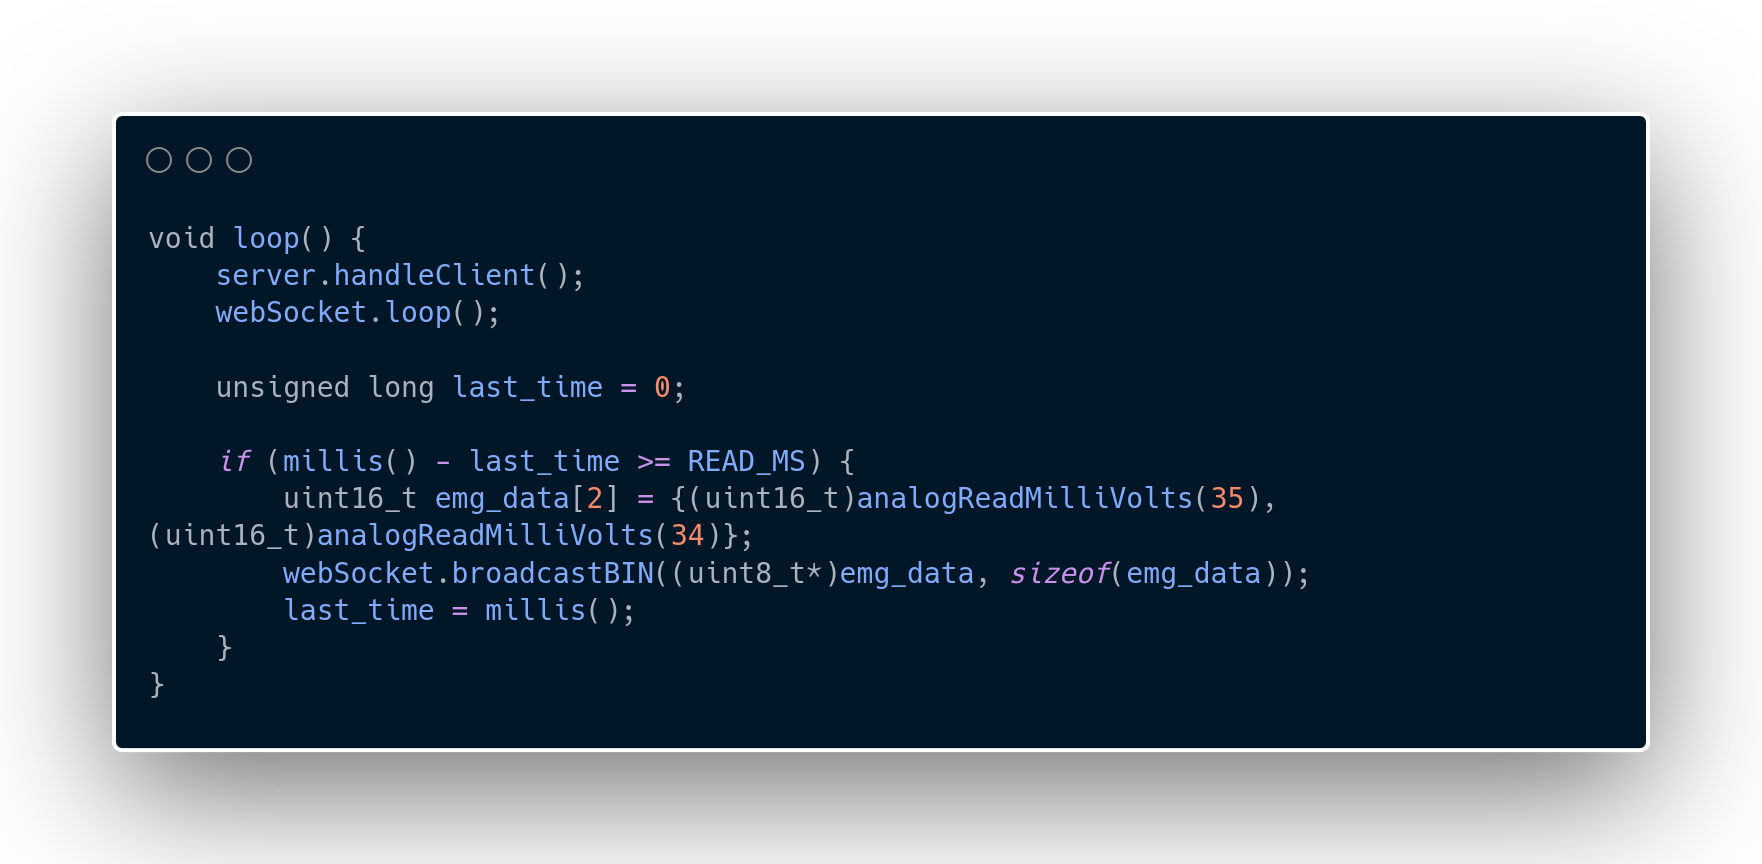
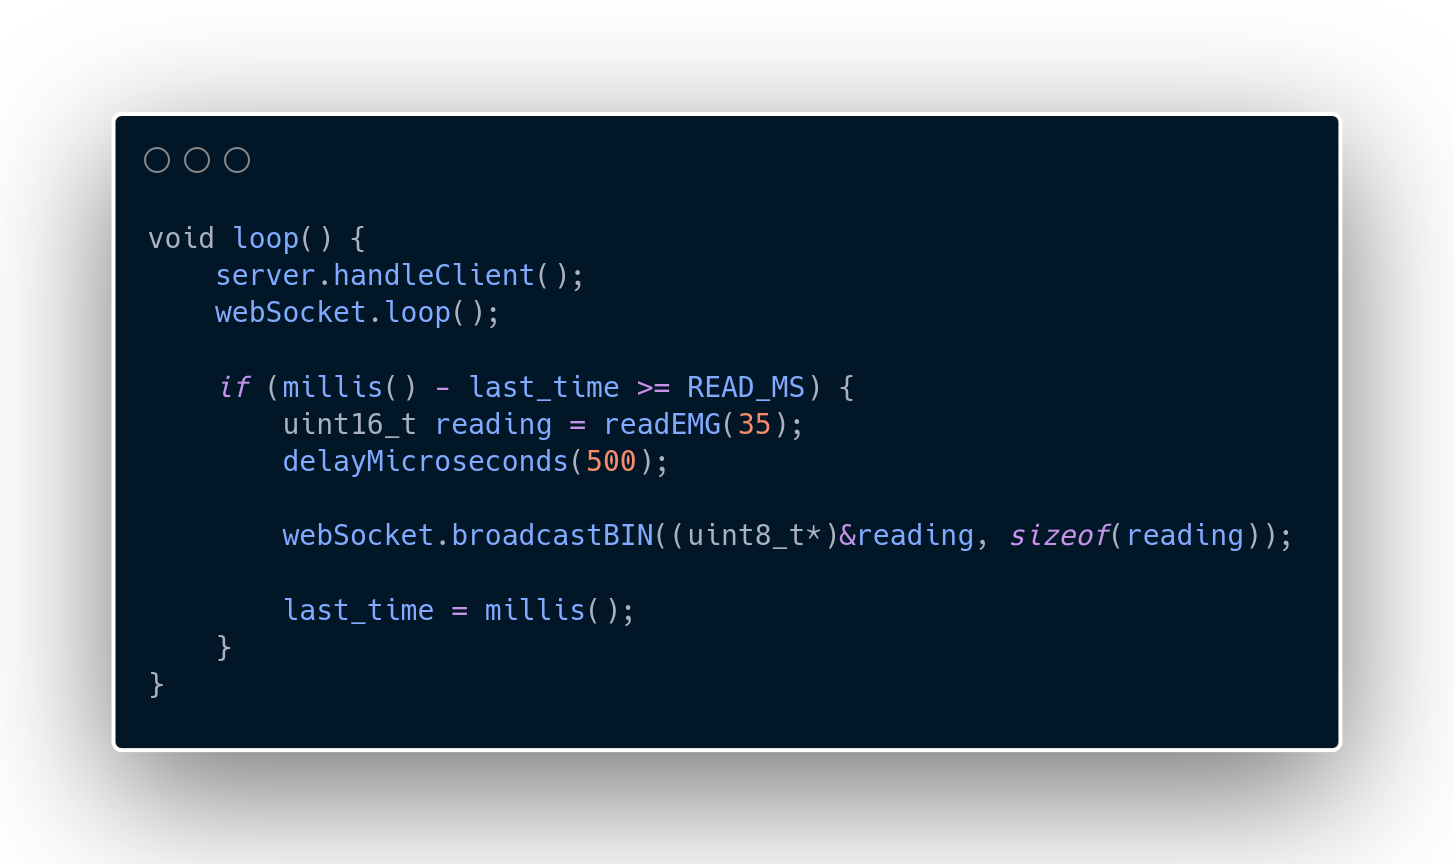
docs: add final assembly photo

Changed region(s): [[0.0619, 0.125, 0.8666, 0.875], [0.8975, 0.125, 0.9594, 0.875]]

diff --git a/README.md b/README.md
@@ -19,14 +19,14 @@
 
 ## Basic Overview
 
-This project consists of an implementation of a circuit to measure specific muscle activity, consisting of two channels, which means that it is possible to measure two muscles separatly and simultaneously. The project emerges as a way to detect muscular issues and restraints in a low-cost and reliable manner. The general architecture of this project is a connection between the electromyograph PCB and the ESP32 microcontroller, where the ESP32 acts as a web server with an WebSocket to handle the data plotting.
+This project consists of an implementation of a circuit to measure specific muscle activity, consisting of two channels, which means that it is possible to measure two muscles simultaneously. The project emerges as a way to detect muscular issues and restraints in a low-cost and reliable manner. The general architecture of this project is a connection between the electromyograph PCB and the ESP32 microcontroller, where the ESP32 acts as a web server with an WebSocket to handle the data plotting.
 
 ## Goals
 
 | Type | Goal |
 | :--- | :--- |
-| **Hardware** | Design a circuit that is capable of effectively measuring a muscle voltage |
-| **Hardware** | Make the circuit as affordable as possible, but at the same time, noise-free |
+| **Hardware** | Design a circuit that is capable of effectively measuring muscle voltage |
+| **Hardware** | Make the circuit as noise-free as possible |
 | **Software** | Write an optimized code that can display, in real time, the muscle data |
 
 
@@ -105,9 +105,9 @@ This section explains the details of the project, including the materials and to
   </tr>
   <tr>
     <td align="center" valign="top" width="150" style="border: none;">
-      <img src="/images/dip14.png" width="80" height="80" style="object-fit: contain;"><br>
-      <strong>IC Socket</strong><br>
-      <font color="#666" size="2">1x DIP-14</font>
+      <img src="/images/isopropanol.png" width="80" height="80" style="object-fit: contain;"><br>
+      <strong>Isopropanol</strong><br>
+      <font color="#666" size="2">1x 99.8% Pure</font>
     </td>
     <td align="center" valign="top" width="150" style="border: none;">
       <img src="/images/cell_holder.png" width="80" height="80" style="object-fit: contain;"><br>
@@ -196,6 +196,9 @@ By substituting the values, it follows that the circuit raises the muscle voltag
 | :--- | :--- |
 | **Reference Voltage** | $V_{out} = \left(5V\right)\left(\frac{R_{variable}}{R_{total}}\right)$ |
 
+> [!IMPORTANT]  
+> Even though the project has only one graph, both of the outputs needs to be connected. The first output (O1) is the main channel, and the second output (O2) is an auxiliar channel that helps in cleaning the noise.
+
 ---
 
 ### Pin Reference
@@ -231,6 +234,46 @@ A single-channel prototype was implemented on a breadboard to validate the circu
 
 In the image below, it is shown the final assembly of this project, consisting of two main blocks, the printed circuit board (PCB), which was ordered from <a href="https://jlcpcb.com/">JLCPCB</a>, and the ESP32 microcontroller.
 
+
+<p align="center">
+    <img src="images/final_assembly.jpg" />
+</p>
+
+> [!TIP]
+> In environments highly susceptible to noise, such as an electromyograph, it is important to clean the board with isopropanol and a anti-static brush to remove any soldering residue.
+
+To help reduce the noise, it was used copper pouring in both layers of the printed circuit board (PCB). In the table below it is presented some important parameters of the board.
+
+| Parameter | Value |
+| :--- | :--- |
+| **Power Trace Width** | $0.4 \ mm$ |
+| **Signal Trace Width** | $0.2 \ mm$ |
+| **Clearance** | $0.2 \ mm$ |
+| **Via Size** | $0.6 \ mm$ |
+| **Via Hole** | $0.3 \ mm$ |
+| **μVia Size** | $0.3 \ mm$ |
+| **μVia Hole** | $0.1 \ mm$ |
+| **DP Width** | $0.2 \ mm$ |
+| **DP Gap** | $0.25 \ mm$ |
+
+---
+
+## Electrode Placement
+
+<p align="center">
+    <img src="images/cable_ref.jpg" />
+</p>
+
+| Cable End | Role |
+| :--- | :--- |
+| **Yellow** | Reference |
+| **Green** | Negative |
+| **Red** | Positive |
+
+> [!IMPORTANT]  
+> Place the yellow electrode in a non-muscular part of the body, and the centers of green and red electrodes within 2 centimeters apart.
+
+---
 
 ## Software Used
 

diff --git a/software/README.md b/software/README.md
@@ -28,6 +28,16 @@ The **Async TCP**, **ESP Async WebServer** and the **WebSockets** library are us
 
 ---
 
+### Filtering
+
+<p align="center">
+    <img src="../images/mean.png">
+</p>
+
+In the image above, it is shown a function that calculates a mean of the last eight readings from the pin specified in the parameter, helping in stabilizing the signal.
+
+---
+
 ### Defines
 
 <p align="center">
@@ -44,7 +54,7 @@ In the image above, it is shown the declaration of two constants (SSID and PASSW
     <img src="../images/main_loop.png">
 </p>
 
-In the image above, it is shown the main loop. The thing here, is that we calculate the difference between the function **millis()** the variable **last_time** to get the time between the two last readings, but, the microcontroller can stutter if too many readings are made in a short period of time. To solve that, it is needed to use a threshold, in this case the constant **READ_MS**, only readings within time spans greater or equal than **READ_MS** are accepted. If you look inside of the if statement, there is a declaration of an array that will hold the raw readings from the ESP32 analog to digital pins, and in the next line it is called a function to broadcast these in binary form, to optimize the microcontroller and prevent lagging.
+In the image above, it is shown the main loop. The thing here, is that we calculate the difference between the function **millis()** the variable **last_time** to get the time between the two last readings, but, the microcontroller can stutter if too many readings are made in a short period of time. To solve that, it is needed to use a threshold, in this case the constant **READ_MS**, only readings within time spans greater or equal than **READ_MS** are accepted. If you look inside of the if statement, there is a declaration of an variable that will hold the raw reading from the ESP32 analog to digital pin, and in the next line it is called a function to broadcast these in binary form, to optimize the microcontroller and prevent lagging.
 
 ---
 